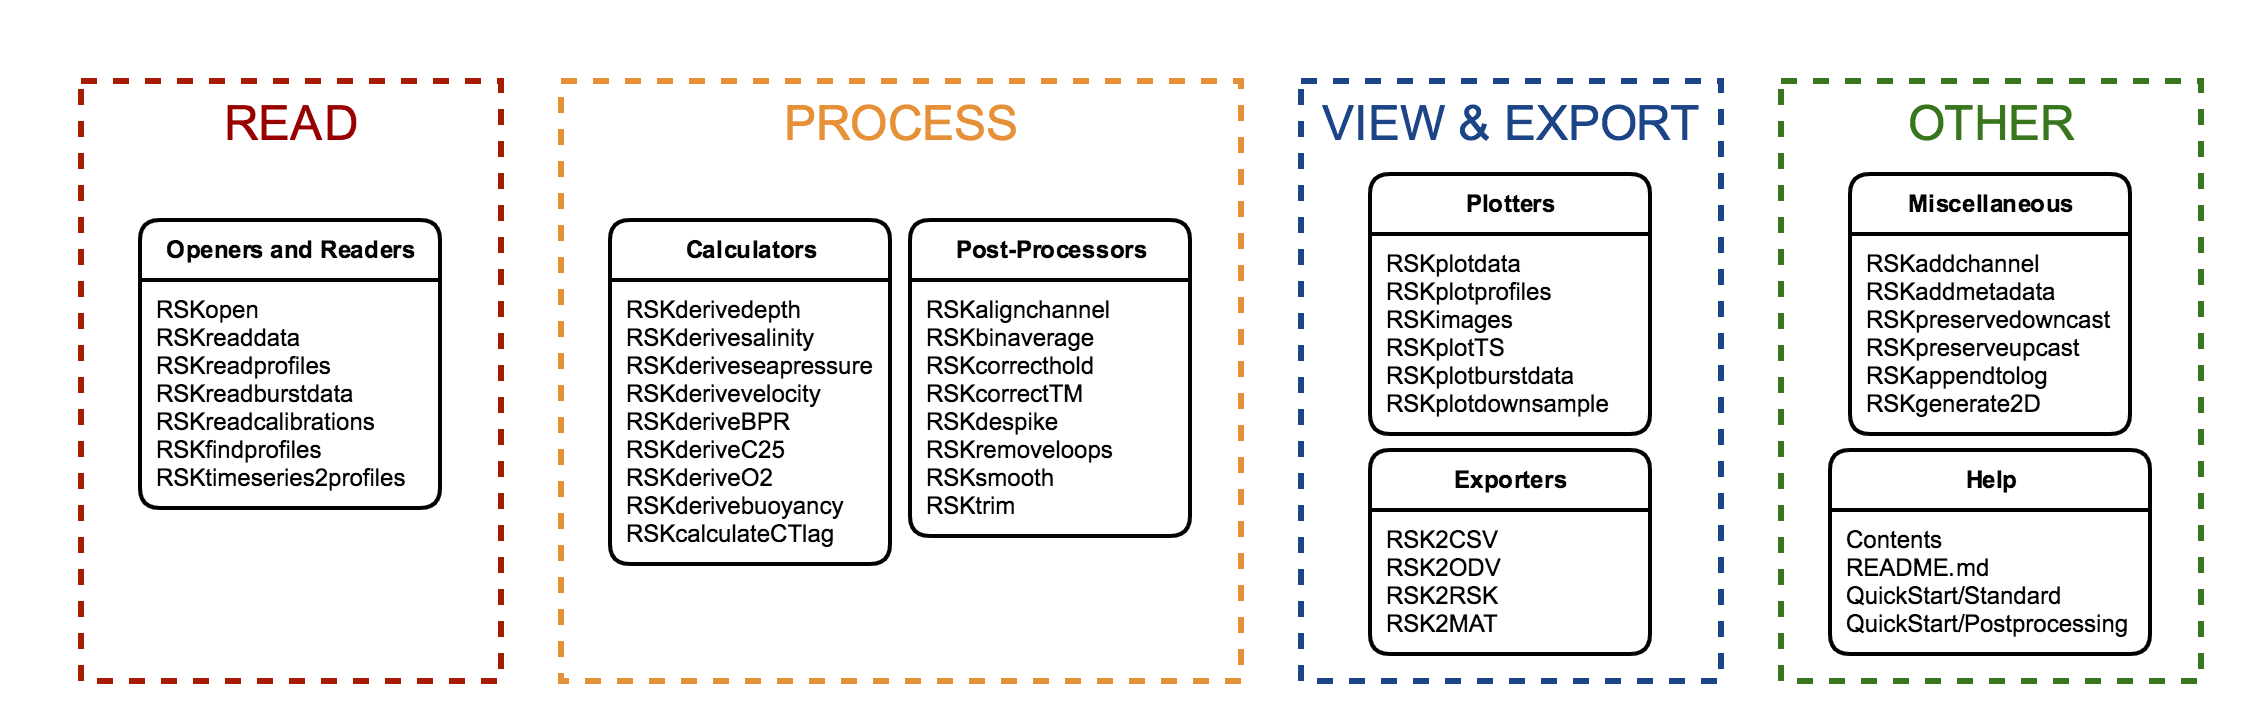
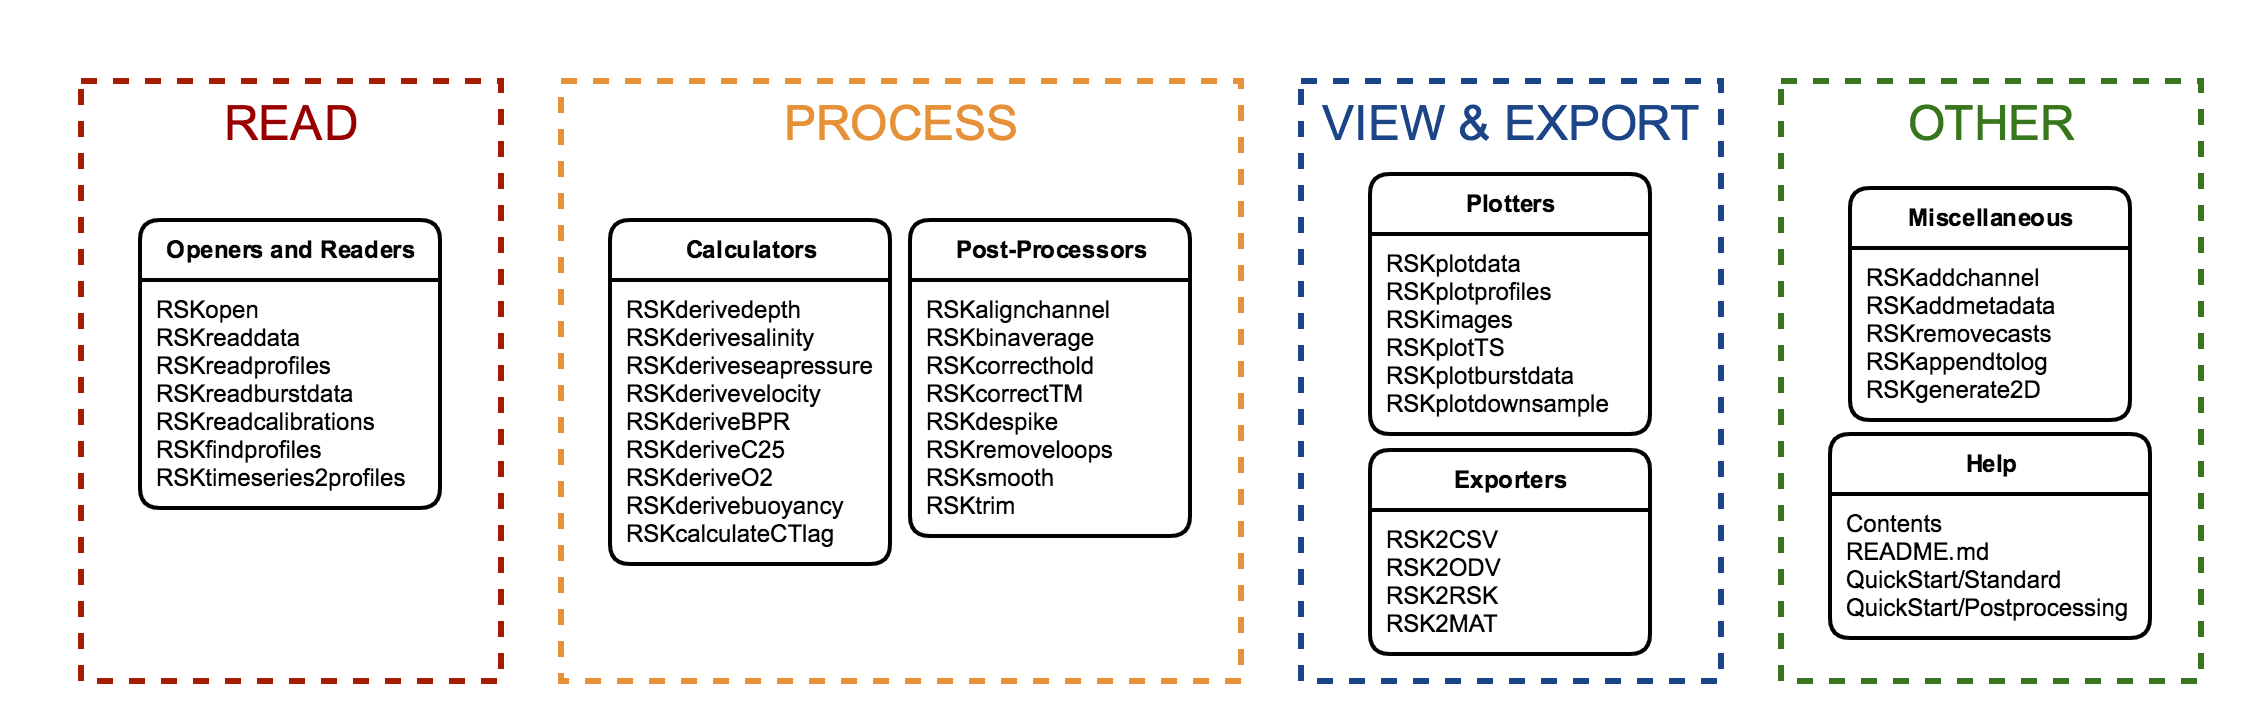
more changes for v3.0 documents

Changed region(s): [[0.8082, 0.2139, 0.9636, 0.9167]]

diff --git a/Contents.m b/Contents.m
@@ -1,5 +1,5 @@
 % RSKTOOLS
-% Version 3.0.0 2018-11-07
+% Version 3.0.0 2018-11-08
 %
 % 1.  This toolbox depends on the presence of a functional mksqlite
 % library.  We have included a couple of versions here for Windows (32 bit/
@@ -78,8 +78,7 @@
 %   RSK2MAT                - write RSK structure to legacy Ruskin .mat format
 %   RSKaddchannel          - add a new channel to existing RSK structure
 %   RSKaddmetadata         - add station metadata to RSK data structure
-%   RSKpreservedowncast    - keep only the downcasts in the RSK structure
-%   RSKpreserveupcast      - keep only the upcasts in the RSK structure
+%   RSKremovecasts         - remove either downcasts or upcasts in the RSK structure
 %   RSKappendtolog         - append the entry and current time to the log field
 %
 %

diff --git a/Utilities/loadconstants.m b/Utilities/loadconstants.m
@@ -3,7 +3,7 @@
 % Author: RBR Ltd. Ottawa ON, Canada
 % email: support@rbr-global.com
 % Website: www.rbr-global.com
-% Last revision: 2018-11-07
+% Last revision: 2018-11-08
 
 latestRSKversion = '2.5.8';
 latestRSKversionMajor = 2;

diff --git a/QuickStart/PostProcessing.m b/QuickStart/PostProcessing.m
@@ -2,7 +2,7 @@
 % RSKtools v3.0.0;
 % RBR Ltd. Ottawa ON, Canada;
 % support@rbr-global.com;
-% 2018-11-07
+% 2018-11-08
 
 %% Introduction
 % RSKtools includes a series of functions to post-process RBR logger

diff --git a/QuickStart/Standard.m b/QuickStart/Standard.m
@@ -2,7 +2,7 @@
 % RSKtools v3.0.0;
 % RBR Ltd. Ottawa ON, Canada;
 % support@rbr-global.com;
-% 2018-11-07
+% 2018-11-08
 
 %% Introduction 
 % |RSKtools| is RBR's open source Matlab toolbox for reading,

diff --git a/README.md b/README.md
@@ -1,6 +1,6 @@
 # RSKtools
 
-Current stable version: 3.0.0 (2018-11-07)
+Current stable version: 3.0.0 (2018-11-08)
 
 RSKtools is a Matlab toolbox designed to help RBR users work with the
 "RSK" SQLite data files generated by RBR instruments. This repository
@@ -77,18 +77,17 @@ channel in the RSK structure.
 
 ## Changes
 
-* Version 3.0.0 (2018-11-07)
+* Version 3.0.0 (2018-11-08)
 
     - New function `RSK2RSK` for writing the RSKtools rsk MATLAB structure into a new rsk file. 
     - New function `RSKcorrectTM` to correct conductivity for the thermal inertia effect.
     - New function `RSKderivebuoyancy` for deriving buoyancy frequency and stability. 
     - New function `RSKderiveO2` for converting between oxygen concentration and saturation.
     - New function `RSKplotTS` for plotting T-S diagrams.
-    - New function `RSKgenerate2D` for generating 2D data with time as x-axis and reference channel (e.g., depth) as y axis.
+    - New function `RSKgenerate2D` for generating 2D data with time as x-axis and reference channel (e.g., depth) as y-axis.
     - New function `RSKtimeseries2profiles` for organizing a time series into discrete profiles without reading from the rsk file on disk.
     - `RSKreadprofiles` now only reads data from the rsk file on disk.
-    - `RSKselectdowncast` is renamed to `RSKpreserveupcast`.
-    - `RSKselectupcast` is renamed to `RSKpreservedowncast`.
+    - `RSKselectdowncast` and `RSKselectupcast` are replaced by `RSKremovecasts`.
     - `RSKreadwavetxt` is removed.
     - Renamed the following functions that are typically called internally:
       * RSKfirmwarever to readfirmwarever
@@ -103,16 +102,16 @@ channel in the RSK structure.
       * datenum2RSKtime to datenum2rsktime
       * RSKtime2datenum to rsktime2datenum
     - Move subfunctions that are mostly for internal use into folder ../rsktools/Utilities/ 
-    - Axis in subplots are consistent in visualization mode of all post-processing functions.
+    - Synchronises plot limits using linkaxes in visualization mode of all post-processing functions.
     - Plot downcast only when both downcast and upcast are processed in visualization mode.
     - Revise `RSKalignchannel` visualize mode by plotting against time instead of sea pressure.
     - Make x-axis tight in `RSKplotdata` and `RSKimages`.
     - `RSKderiveseapressure` allows variable atmosphere pressure input.
     - Exclude pressure and sea pressure channel from being NaN in `RSKremoveloops`.
     - Input argument `rhc` in `RSKopen` is renamed to `readHiddenChannels`, whose type is changed from numeric (1 or 0) to boolean (true or false).
-    - Input argument `showcast` type in `RSKplotdata` is changed from numeric 1 or 0 to boolean (true or false).
+    - Input argument `showcast` type in `RSKplotdata` is changed from numeric (1 or 0) to boolean (true or false).
     - `RSKplot2D` renamed to `RSKimages`.
-	- `RSKimages` (formerly `RSKplot2D`) optional input `interp` renamed as `showgap`
+	- `RSKimages` (formerly `RSKplot2D`) optional input `interp` renamed as `showgap`.
     - `RSKimages` defaults to operate on all channels.
     - Unit of input argument `threshold` in `RSKimages` is changed from hours to seconds.
     - When bin averaging by time, the `binSize` argument in `RSKbinaverage` is now specified in seconds instead of days.
